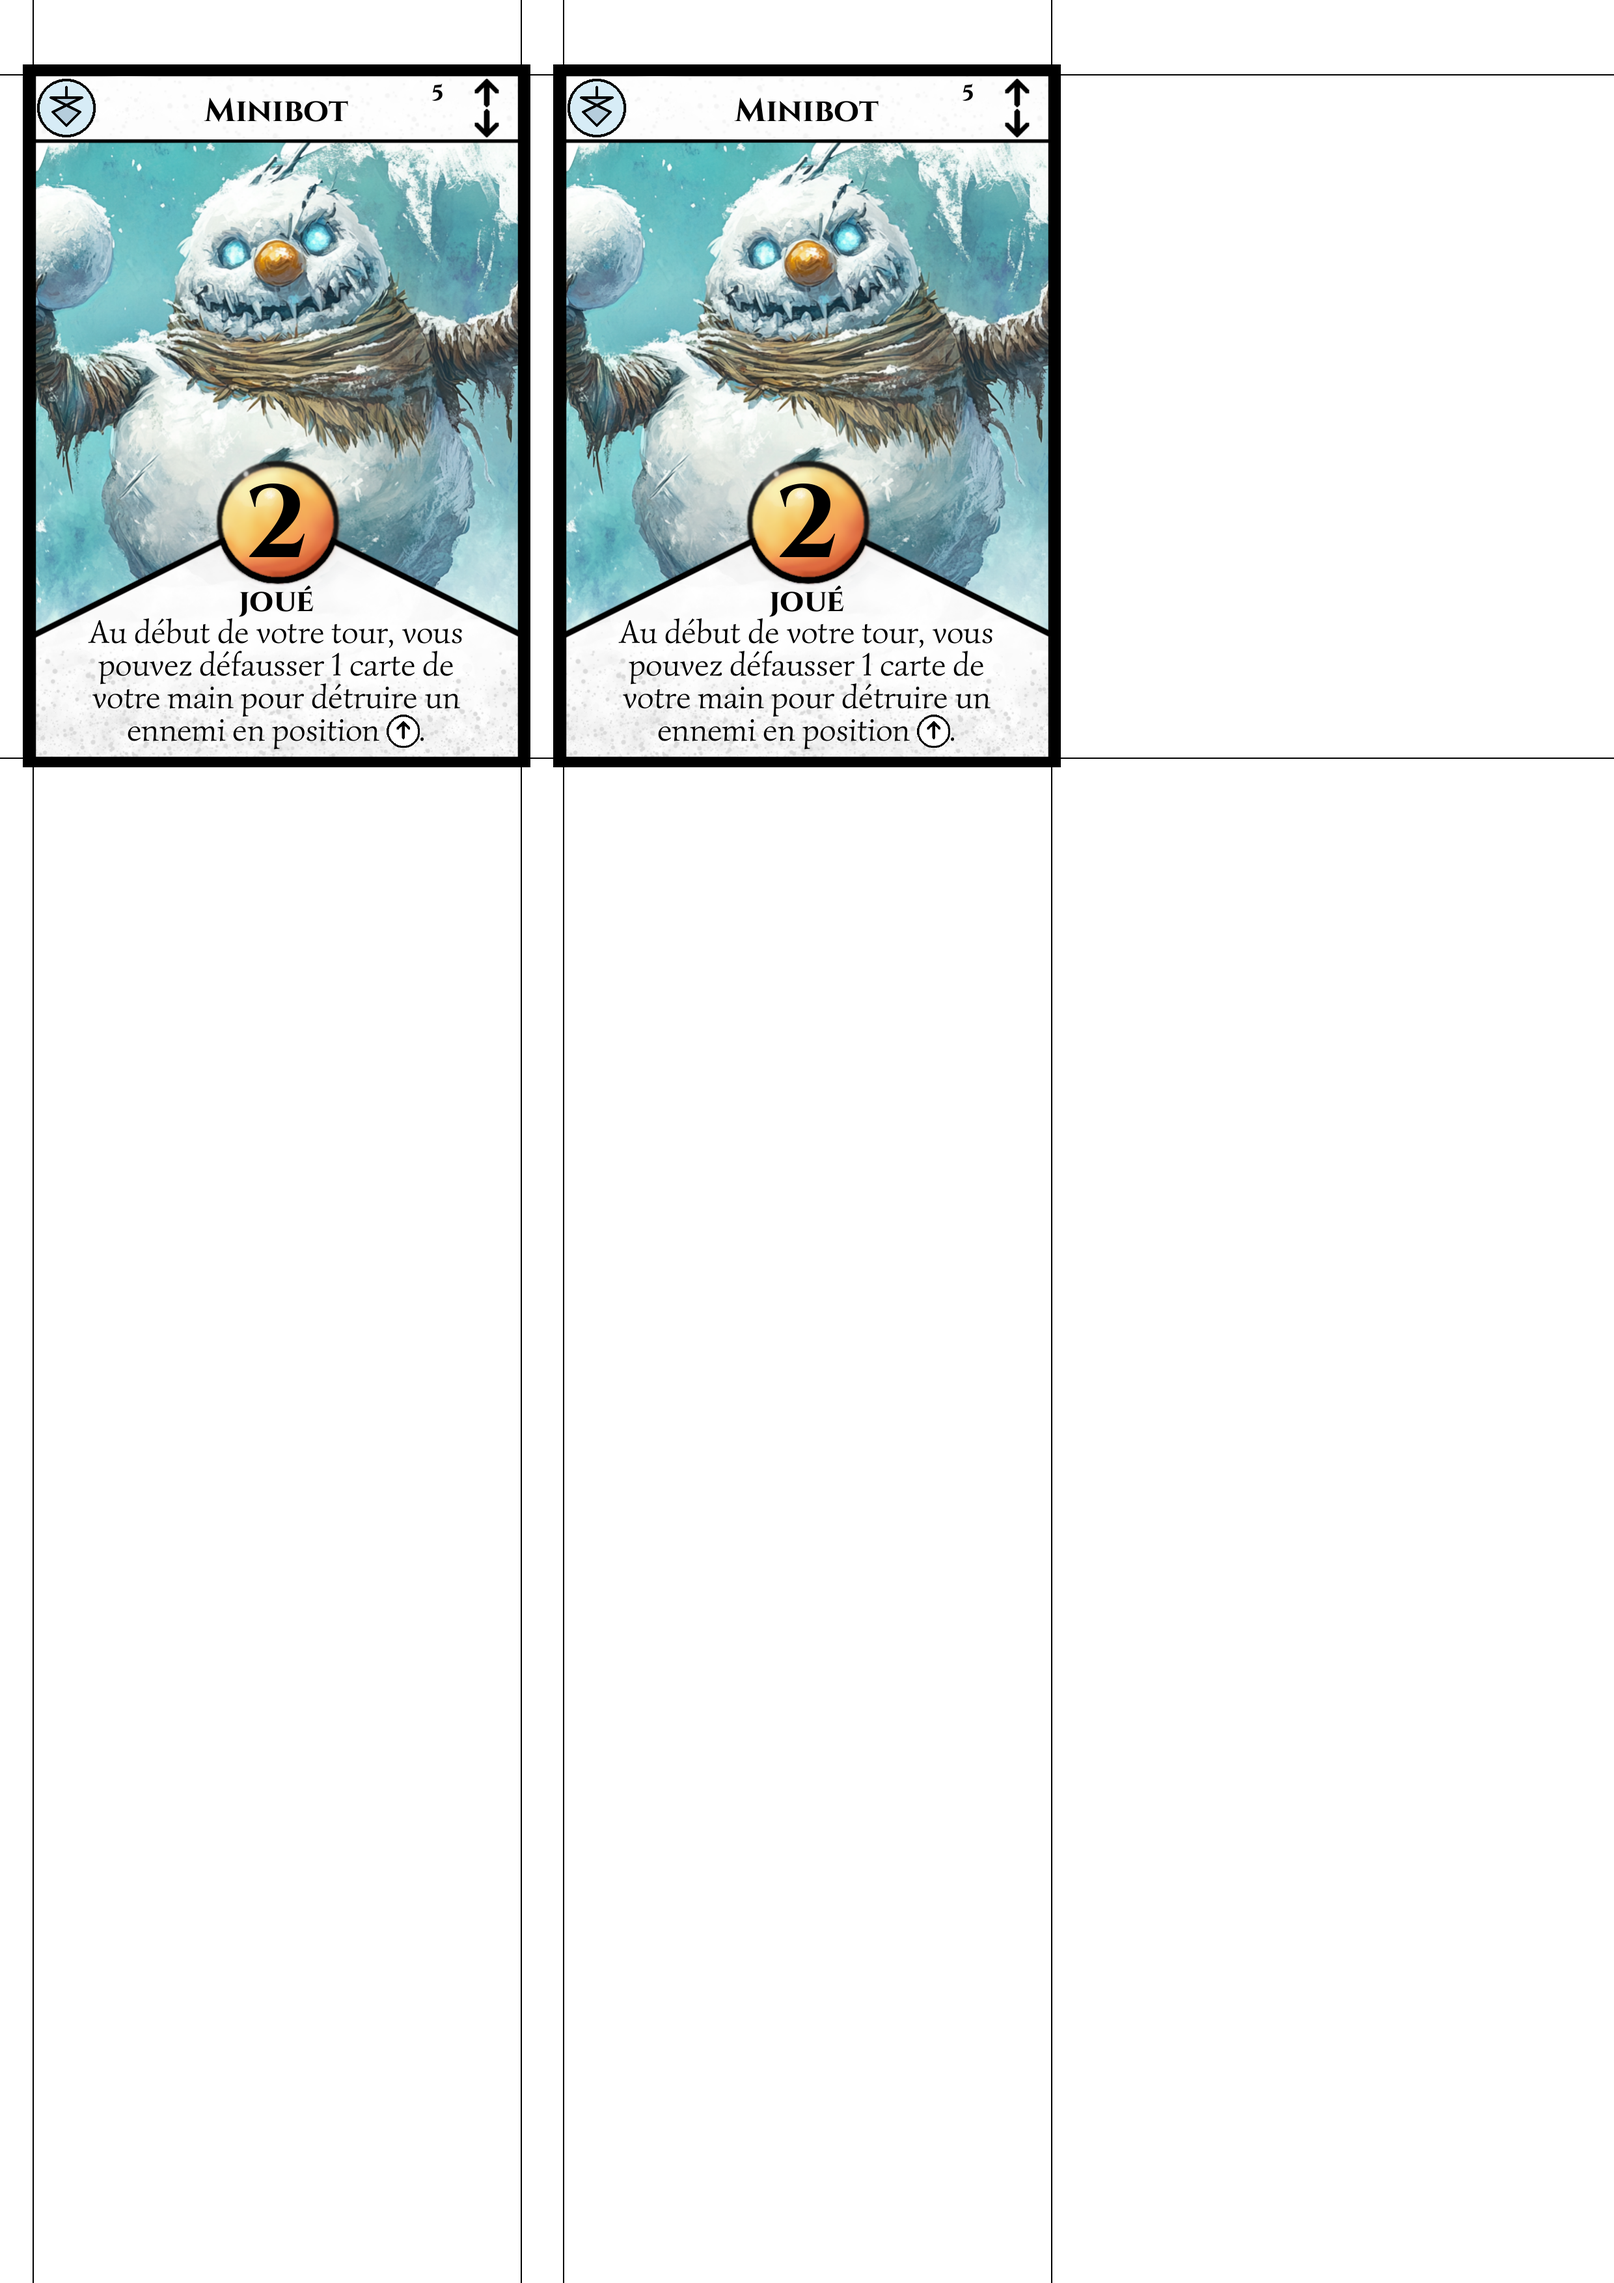
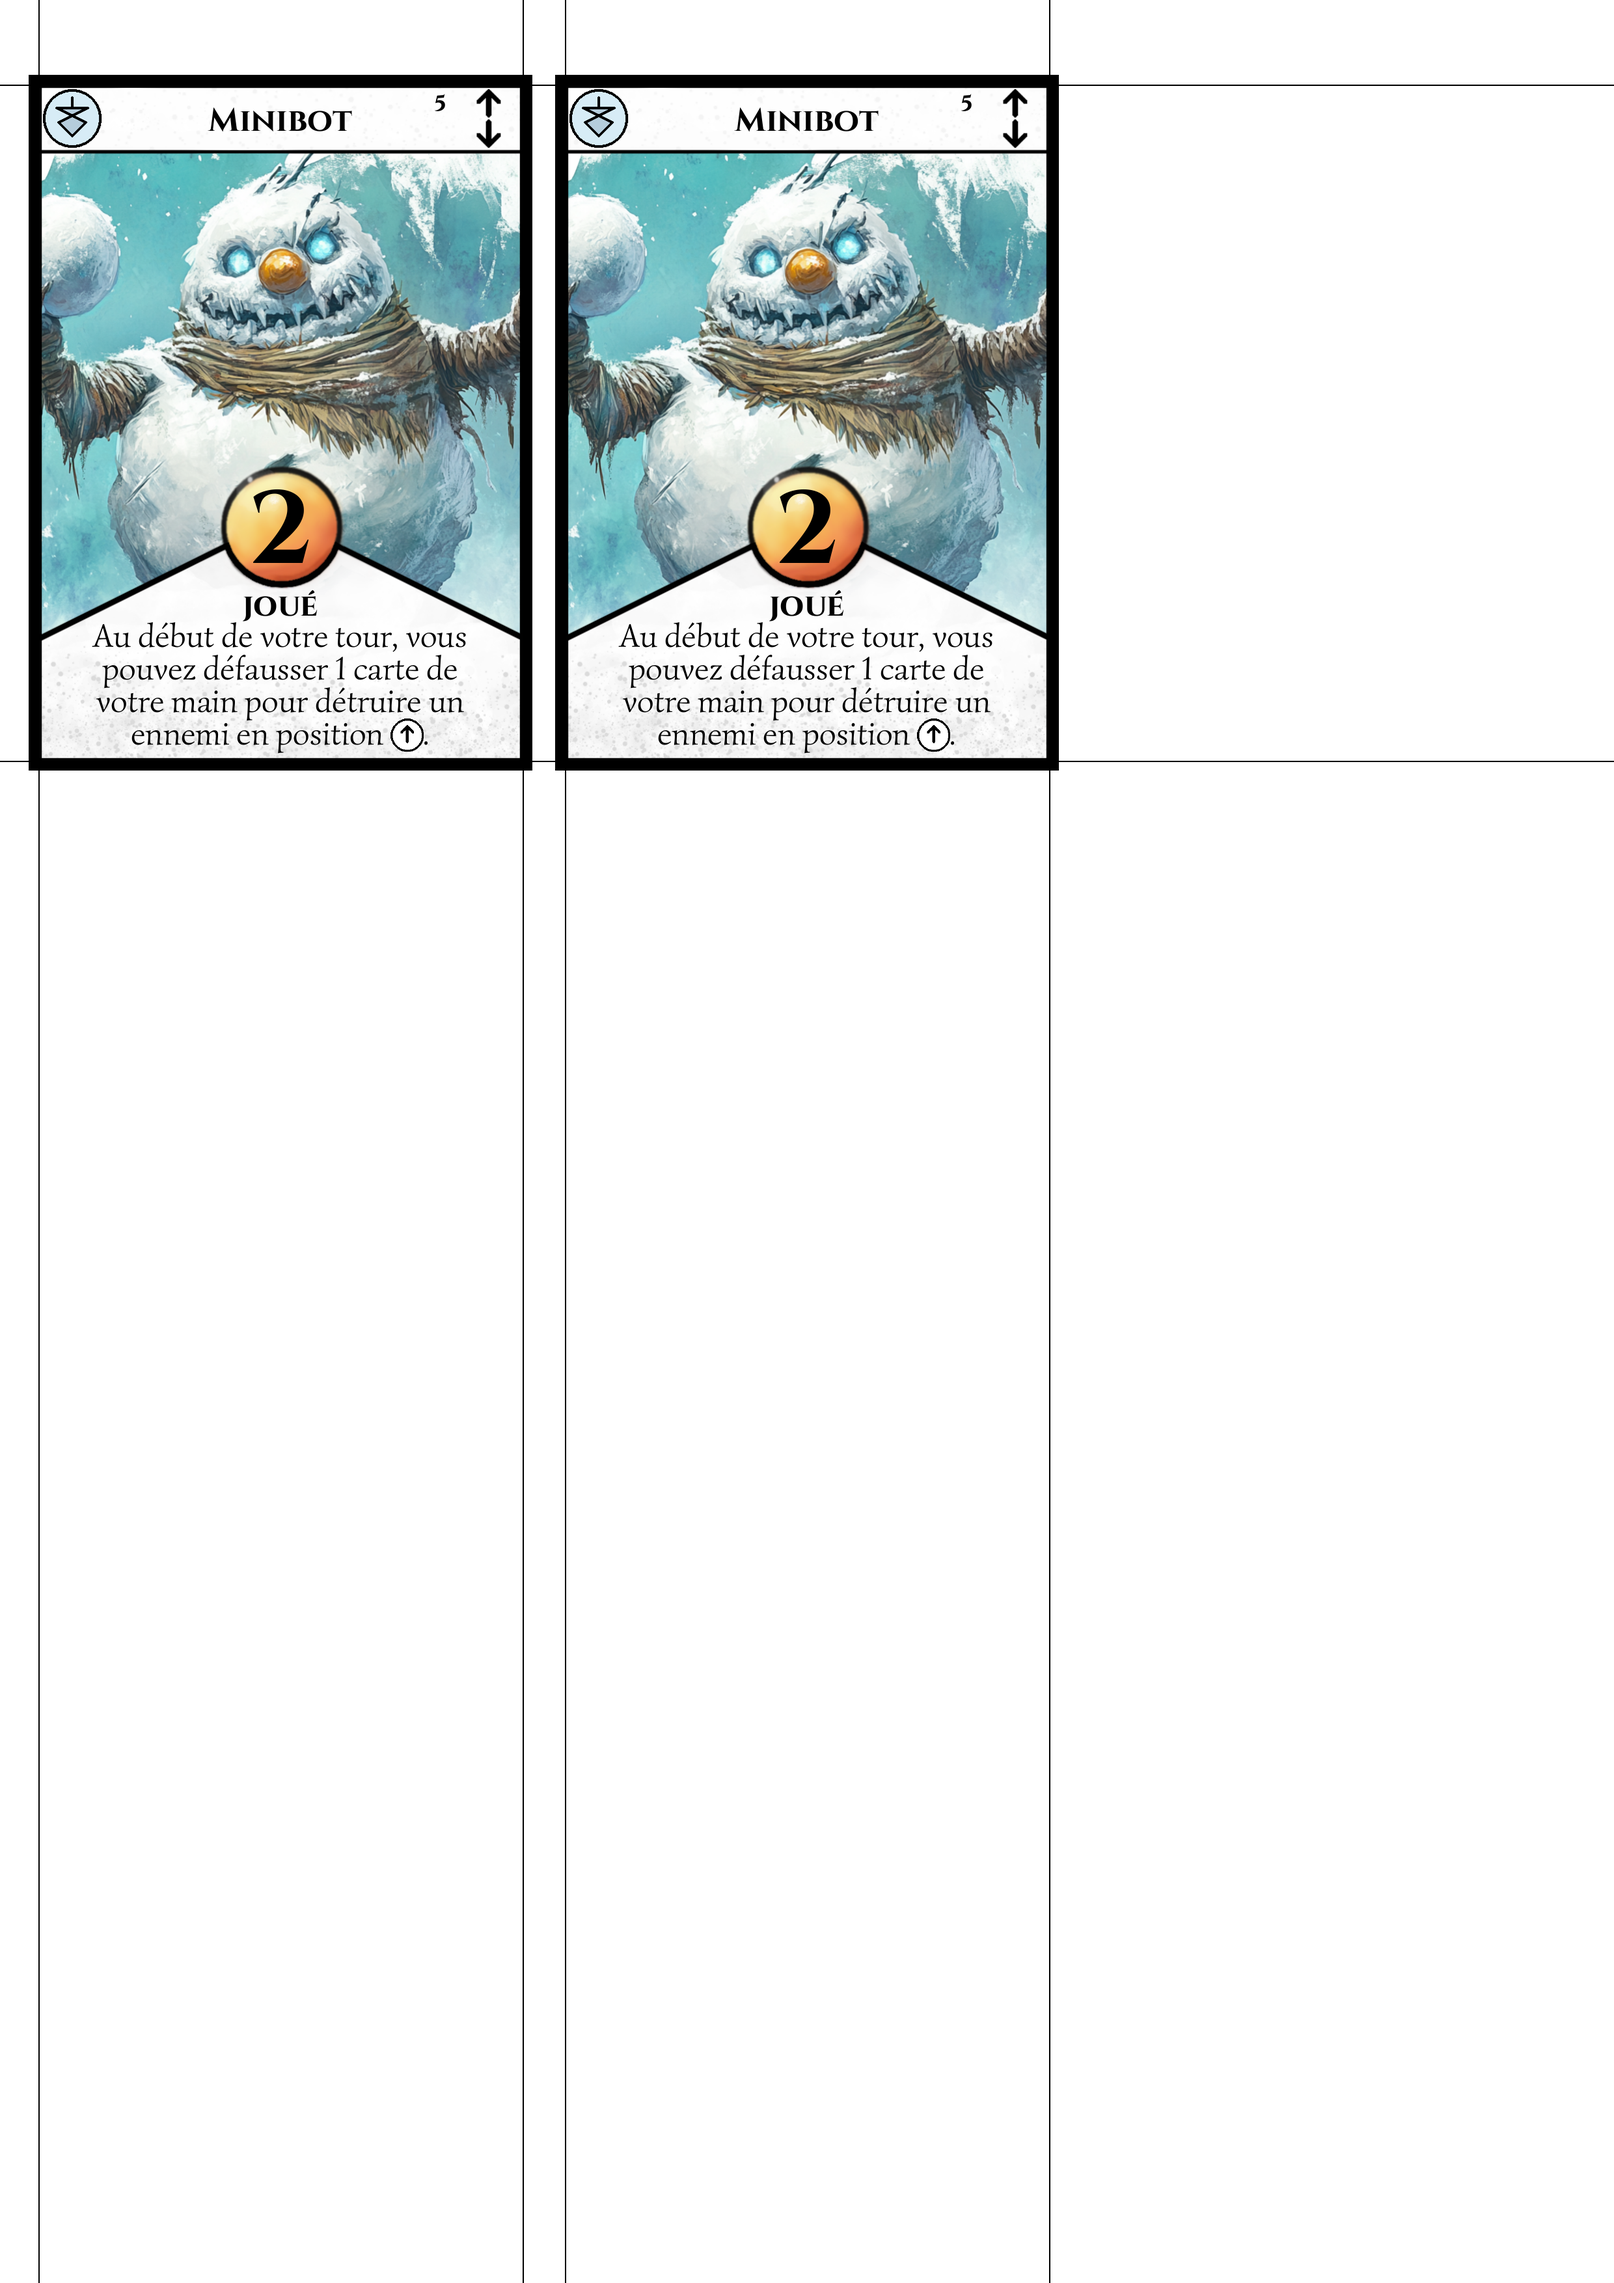
Fix cards size

Changed region(s): [[0.0, 0.0, 0.652, 0.3418]]

diff --git a/main.py b/main.py
@@ -54,8 +54,8 @@ LANGUAGE = "fr"
 BOXES = {
     "card_overlay": (0, 0),
     "background": (0, 0.05),
-    "faction": (0.070, 0.05),
-    "position": (0.930, 0.05),
+    "faction": (0.070, 0.051),
+    "position": (0.930, 0.051),
 }
 
 
@@ -132,7 +132,9 @@ def build_faction(faction: str, faction_details: dict, language: str = "fr"):
             BOXES["background"],
             h_location=character_info.get("h_location"),
         )
-        card_template.add_image(card_layer_path, BOXES["card_overlay"])
+        card_template.add_image(
+            card_layer_path, BOXES["card_overlay"], fit_method="fill"
+        )
         card_template.add_image(
             faction_path, BOXES["faction"], centered=True, fit_method="thumbnail"
         )

diff --git a/scripts/card.py b/scripts/card.py
@@ -8,14 +8,12 @@ from reportlab.pdfbase.pdfmetrics import stringWidth
 import io
 import math
 from scripts.utils import resize_image, smart_box_size, remove_html_tags
-
+from scripts.constants import (
+    WIDTH_PX,
+    HEIGHT_PX,
+    DPI,
+)
 from pdf2image import convert_from_bytes
-
-
-# Constants for image dimensions and DPI
-DPI = 300
-WIDTH_PX = 750
-HEIGHT_PX = 1050
 
 
 class Card:

diff --git a/scripts/constants.py b/scripts/constants.py
@@ -5,8 +5,8 @@ from reportlab.lib.colors import black
 from reportlab.lib.enums import TA_CENTER
 
 DPI = 300
-WIDTH_PX = 750
-HEIGHT_PX = 1050
+WIDTH_PX = 744
+HEIGHT_PX = 1039
 
 pdfmetrics.registerFont(TTFont("Gabriola", "C:/Windows/Fonts/Gabriola.ttf"))
 pdfmetrics.registerFont(
